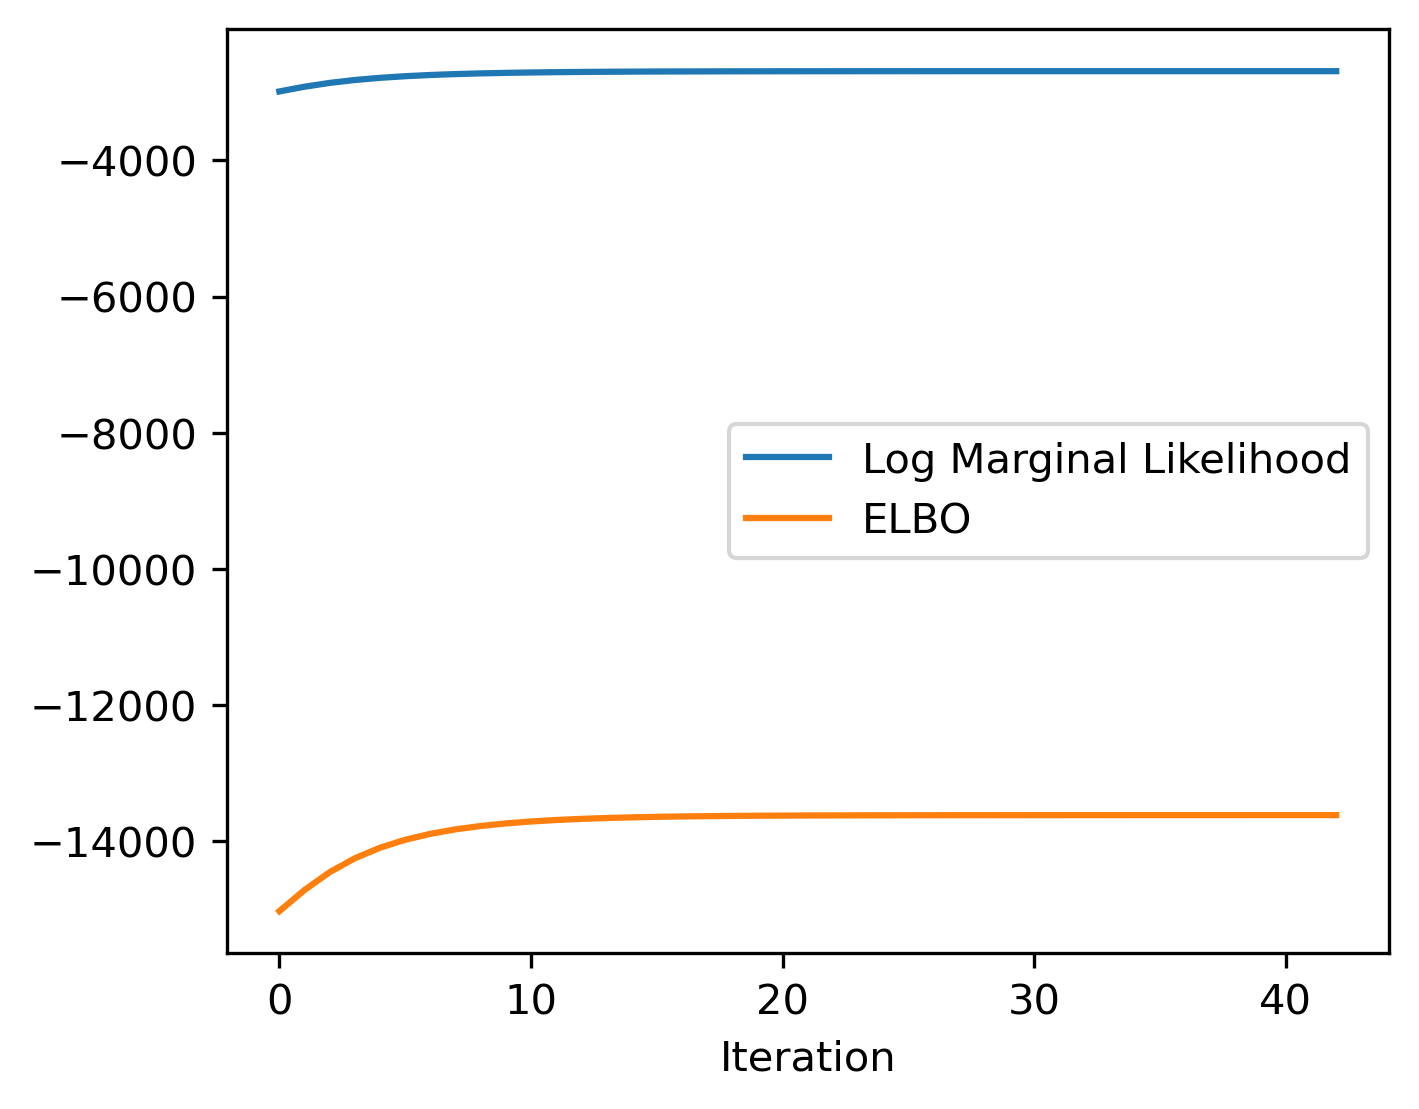
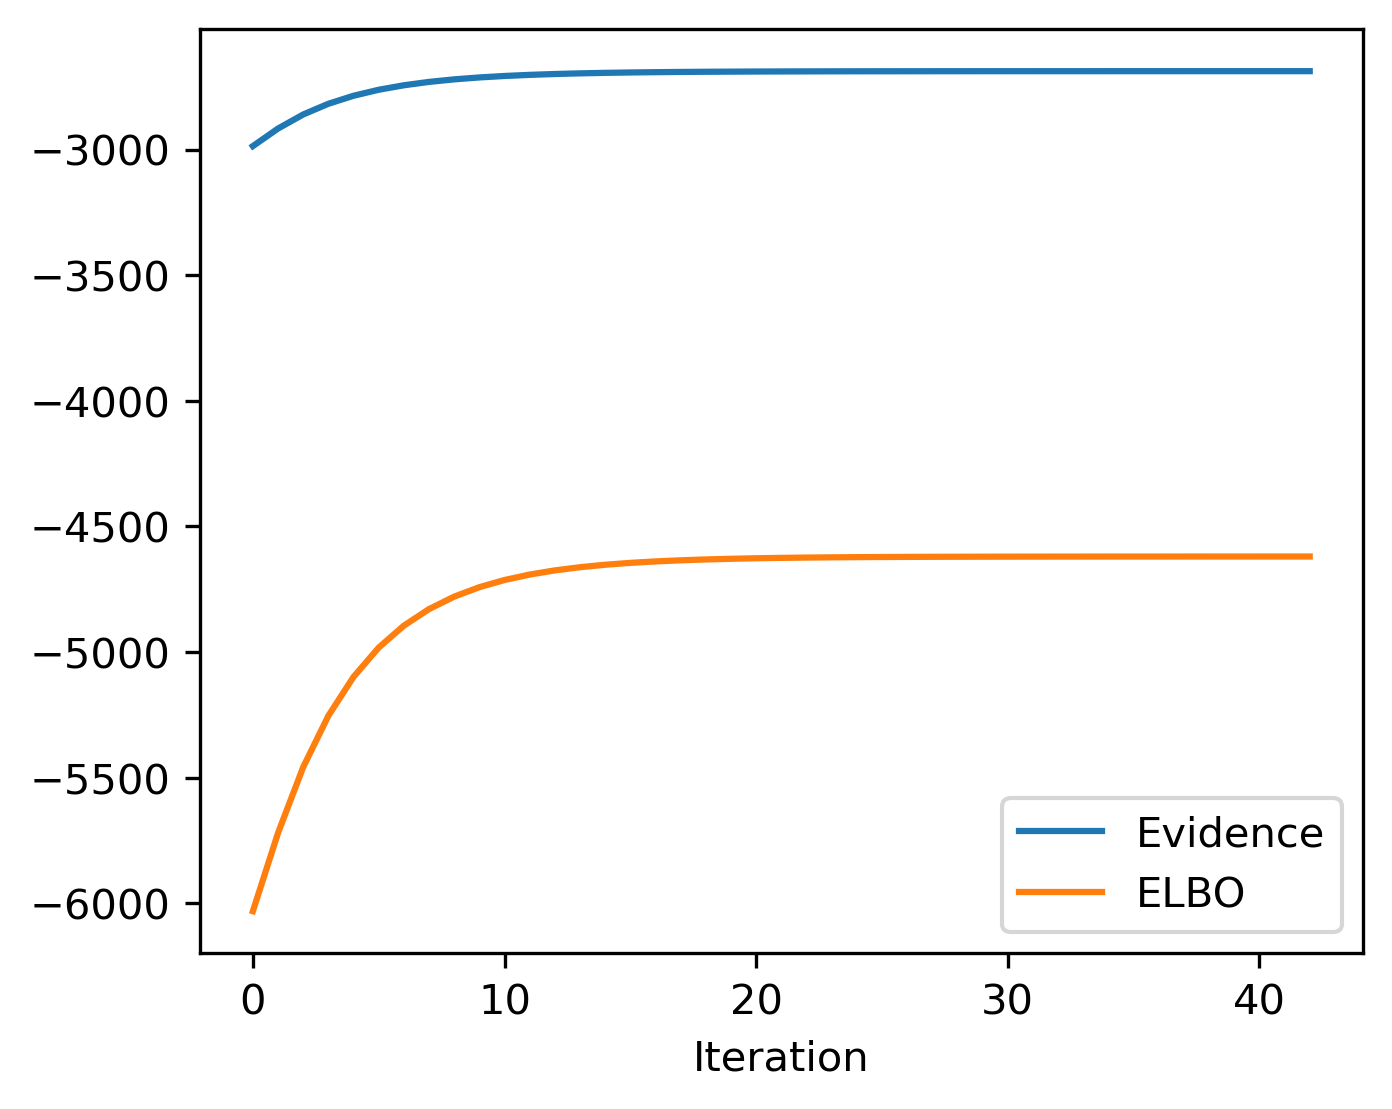
update

diff --git a/code/variational_inference.py b/code/variational_inference.py
@@ -70,7 +70,6 @@ class VariationalInference:
         ELBOs = []
 
         ZTZZT = np.linalg.inv(Z.T @ Z) @ Z.T
-        XTX = X.T @ X
         XXT = X @ X.T
 
         XXT_eigen_values, _ = np.linalg.eig(XXT)
@@ -109,7 +108,7 @@ class VariationalInference:
 
             E_1 = -(n + p) / 2 * np.log(2 * np.pi) - n / 2 * np.log(sigma_e2) - p / 2 * np.log(sigma_b2) - 1 / (2 * sigma_e2) * (y - Z @ omega).T @ (y - Z @ omega) + 1 / sigma_e2 * (y - Z @ omega).T @ X @ m - 1 / (2 * sigma_e2) * (np.trace(X @ np.diag(s2) @ X.T) + m.T @ X.T @ X @ m) - 1 / (2 * sigma_b2) * (np.sum(s2) + m.T @ m)
             E_2 = -p / 2 * np.log(2 * np.pi) - 1 / 2 * np.sum(np.log(s2)) - p / 2
-            ELBO = E_1 + E_2 + 1000
+            ELBO = E_1 + E_2 + 10000
 
             log_marginal_likelihoods.append(log_marginal_likelihood)
             ELBOs.append(ELBO)
@@ -120,8 +119,8 @@ class VariationalInference:
         self.n = n
         self.p = p
         self.c = c
-        self.log_marginal_likelihoods = log_marginal_likelihoods
-        self.ELBOs = ELBOs
+        self.log_marginal_likelihoods = np.array(log_marginal_likelihoods)
+        self.ELBOs = np.array(ELBOs)
         self.Theta = Theta
         self.m = m
 
@@ -147,8 +146,9 @@ class VariationalInference:
         plt.figure(figsize=(5, 4), dpi=300)
         plt.plot(self.log_marginal_likelihoods)
         plt.plot(self.ELBOs)
-        plt.legend(['Log Marginal Likelihood', 'ELBO'])
+        plt.legend(['Evidence', 'ELBO'])
         plt.xlabel('Iteration')
+        # plt.yscale('symlog')
         plt.savefig(save_path, bbox_inches='tight')
         plt.close()
 

diff --git a/main.py b/main.py
@@ -102,10 +102,10 @@ if __name__ == '__main__':
 
     # lasso(y, Z, X, cv_folds=10)
 
-    cv_boxplot(cv_mses_dirs=['outputs/em_cv_mses.csv', 'outputs/lasso_cv_mses.csv'], save_path='outputs/cv_boxplot.png', labels=['EM', 'LASSO'])    
+    # cv_boxplot(cv_mses_dirs=['outputs/em_cv_mses.csv', 'outputs/lasso_cv_mses.csv'], save_path='outputs/cv_boxplot.png', labels=['EM', 'LASSO'])    
 
-    # variational_inference(y, Z, X, omega_init=np.zeros(10), sigma_b2_init=1, sigma_e2_init=0.5, max_iter=100, tol=1e-6, cv_folds=10)
+    variational_inference(y, Z, X, omega_init=np.zeros(10), sigma_b2_init=1, sigma_e2_init=0.5, max_iter=100, tol=1e-6, cv_folds=10)
 
-    cv_boxplot(cv_mses_dirs=['outputs/em_cv_mses.csv', 'outputs/lasso_cv_mses.csv', 'outputs/vi_cv_mses.csv'], save_path='outputs/cv_boxplot_2.png', labels=['EM', 'LASSO', 'VI'])
+    # cv_boxplot(cv_mses_dirs=['outputs/em_cv_mses.csv', 'outputs/lasso_cv_mses.csv', 'outputs/vi_cv_mses.csv'], save_path='outputs/cv_boxplot_2.png', labels=['EM', 'LASSO', 'VI'])
 
     
